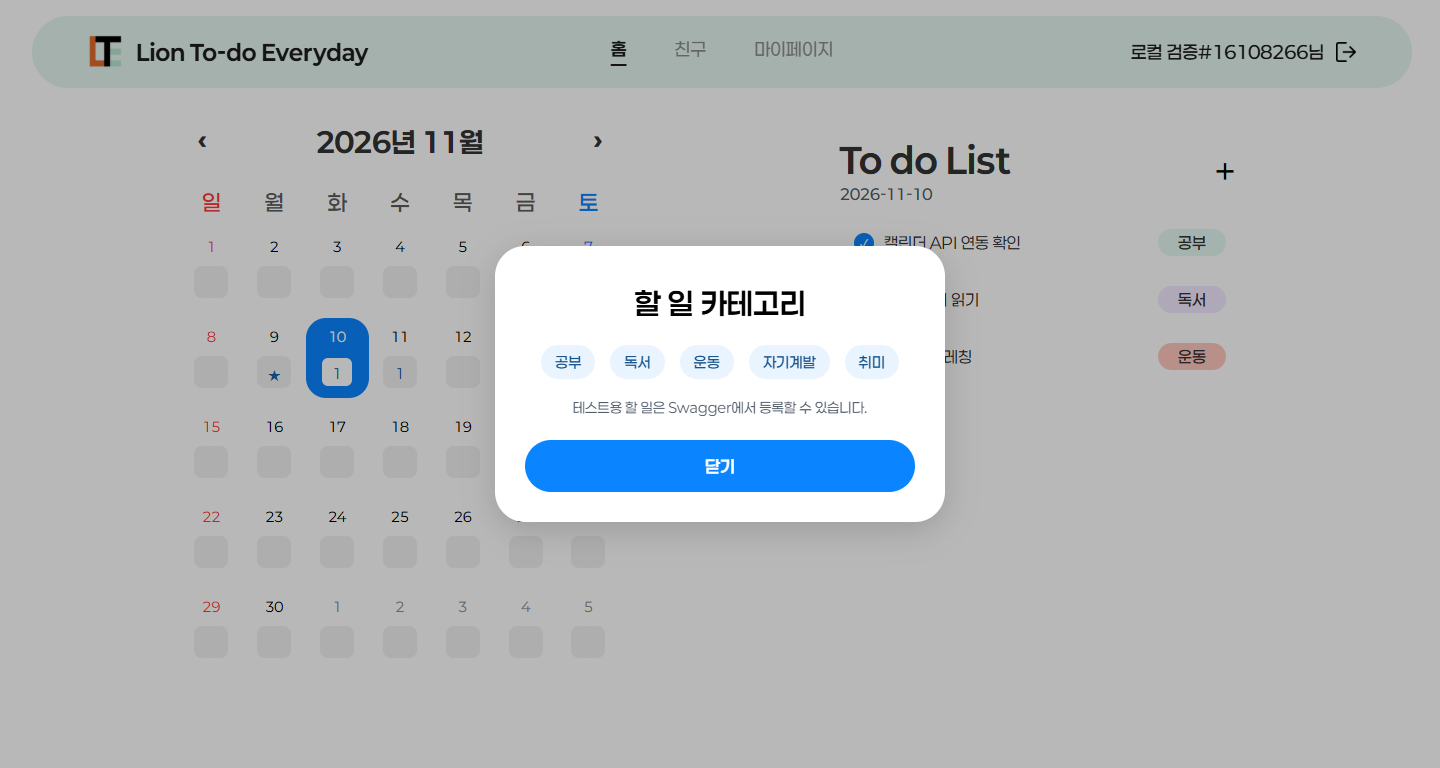
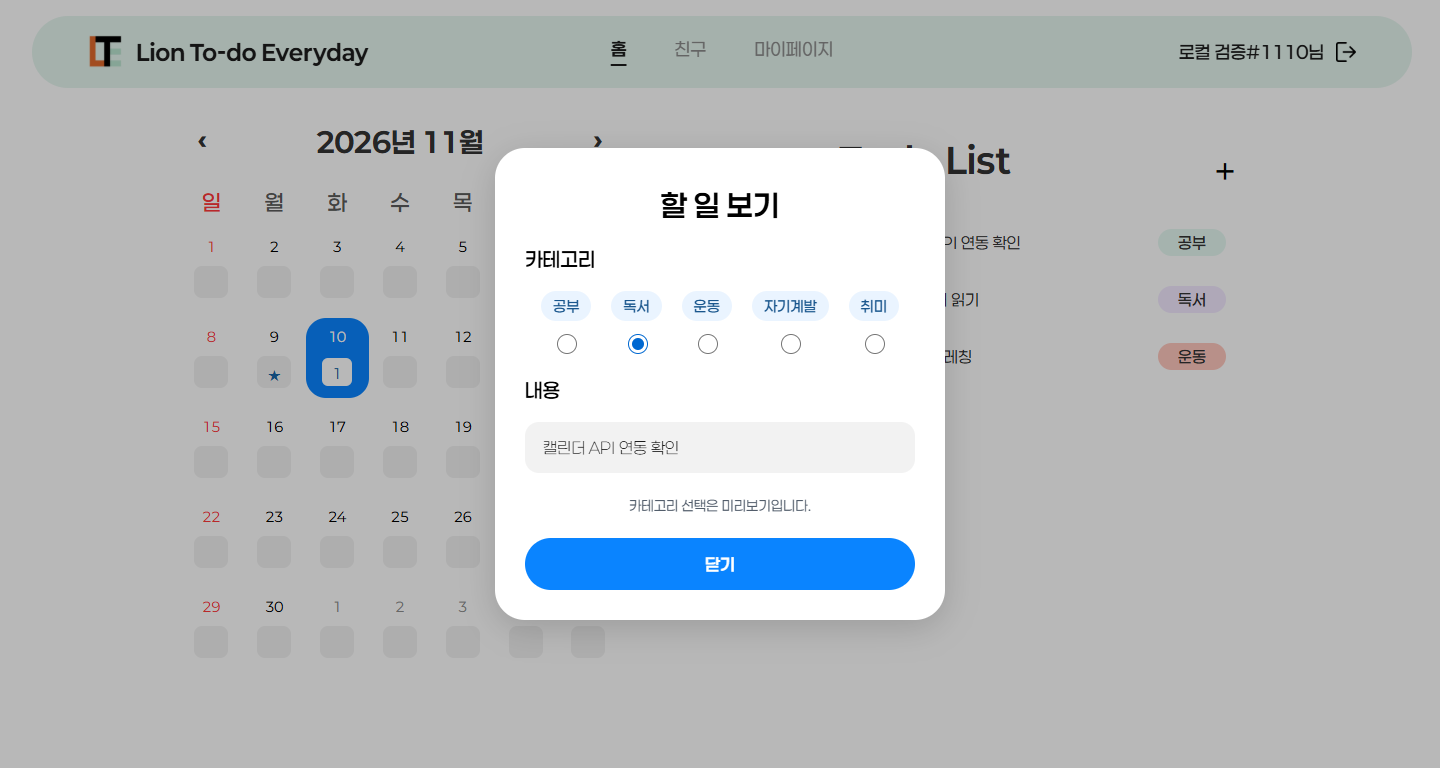
fix: restore category selection in the todo modal

diff --git a/src/pages/MainPage/TodoModal.js b/src/pages/MainPage/TodoModal.js
@@ -1,11 +1,16 @@
-import { useEffect, useRef } from "react";
+import { useEffect, useRef, useState } from "react";
 import { getCategories } from "./todoApi";
 import useTodoResource from "./useTodoResource";
 import TodoResourceStatus from "./TodoResourceStatus";
 
-export default function TodoModal({ onClose }) {
+export default function TodoModal({ todo, onClose }) {
   const dialogRef = useRef(null);
   const categories = useTodoResource(getCategories, "categories");
+  const [categoryId, setCategoryId] = useState(null);
+  const initialCategory = todo
+    ? categories.data?.find(({ categoryName }) => categoryName === todo.categoryName)
+    : categories.data?.[0];
+  const selectedId = categoryId ?? initialCategory?.categoryId;
 
   useEffect(() => {
     const dialog = dialogRef.current;
@@ -28,19 +33,36 @@ export default function TodoModal({ onClose }) {
         closeDialog();
       }}
     >
-      <h2 className="modal-title" id="todo-modal-title">할 일 카테고리</h2>
+      <h2 className="modal-title" id="todo-modal-title">
+        {todo ? "할 일 보기" : "할 일 카테고리"}
+      </h2>
       <div className="modal-section">
+        <div className="modal-label" id="todo-category-label">카테고리</div>
         <TodoResourceStatus resource={categories} label="카테고리를" />
         {categories.data?.length === 0 && <p>등록된 카테고리가 없습니다.</p>}
         {categories.data?.length > 0 && (
-          <ul className="modal-categories todo-category-options">
+          <div className="modal-categories todo-category-options" role="radiogroup" aria-labelledby="todo-category-label">
             {categories.data.map(({ categoryId, categoryName }) => (
-              <li key={categoryId} className="modal-categoryitem">{categoryName}</li>
+              <label key={categoryId} className="modal-categoryitem">
+                <span>{categoryName}</span>
+                <input
+                  type="radio"
+                  name="todo-category"
+                  checked={selectedId === categoryId}
+                  onChange={() => setCategoryId(categoryId)}
+                />
+              </label>
             ))}
-          </ul>
+          </div>
         )}
-        <p className="todo-category-note">테스트용 할 일은 Swagger에서 등록할 수 있습니다.</p>
       </div>
+      {todo && (
+        <div className="modal-section">
+          <div className="modal-label">내용</div>
+          <p className="input-wrapper todo-description-preview">{todo.description}</p>
+        </div>
+      )}
+      <p className="todo-category-note">카테고리 선택은 미리보기입니다.</p>
       <div className="modal-actions">
         <button type="button" className="rightbutton" onClick={closeDialog}>닫기</button>
       </div>

diff --git a/src/pages/MainPage/Todo.js b/src/pages/MainPage/Todo.js
@@ -13,7 +13,7 @@ const categoryColors = {
 };
 
 export default function Todo({ dateKey, resource, saving, saveFailed, onChangeCompletion }) {
-  const [isModalOpen, setIsModalOpen] = useState(false);
+  const [modal, setModal] = useState(null);
 
   return (
     <section className="todo-container" aria-labelledby="todo-title">
@@ -27,7 +27,7 @@ export default function Todo({ dateKey, resource, saving, saveFailed, onChangeCo
           type="button"
           aria-label="할 일 카테고리 보기"
           aria-haspopup="dialog"
-          onClick={() => setIsModalOpen(true)}
+          onClick={() => setModal({})}
         >
           +
         </button>
@@ -48,7 +48,15 @@ export default function Todo({ dateKey, resource, saving, saveFailed, onChangeCo
               disabled={saving}
               onClick={() => onChangeCompletion(todo)}
             />
-            <div className="todo-text">{todo.description}</div>
+            <button
+              className="todo-text todo-text-button"
+              type="button"
+              aria-label={`할 일 보기: ${todo.description}`}
+              aria-haspopup="dialog"
+              onClick={() => setModal({ todo })}
+            >
+              {todo.description}
+            </button>
             <div
               className="todo-category"
               style={{ backgroundColor: categoryColors[todo.categoryName] || "#F1F1F1" }}
@@ -58,7 +66,7 @@ export default function Todo({ dateKey, resource, saving, saveFailed, onChangeCo
           </div>
         ))}
       </div>
-      {isModalOpen && <TodoModal onClose={() => setIsModalOpen(false)} />}
+      {modal && <TodoModal todo={modal.todo} onClose={() => setModal(null)} />}
     </section>
   );
 }

diff --git a/src/styles/Todo.css b/src/styles/Todo.css
@@ -138,11 +138,34 @@
 }
 
 .todo-category-options .modal-categoryitem {
-  padding: 8px 14px;
+  min-width: 0;
+}
+
+.todo-category-options .modal-categoryitem span {
+  padding: 6px 12px;
   border-radius: 20px;
   background: #eaf4ff;
   color: #19568d;
-  cursor: default;
+}
+
+.todo-text-button {
+  min-width: 0;
+  padding: 0;
+  border: 0;
+  background: transparent;
+  color: inherit;
+  font-family: inherit;
+  text-align: left;
+  cursor: pointer;
+}
+
+.todo-text-button:hover {
+  text-decoration: underline;
+}
+
+.todo-description-preview {
+  overflow-wrap: anywhere;
+  white-space: pre-wrap;
 }
 
 .todo-category-note {
